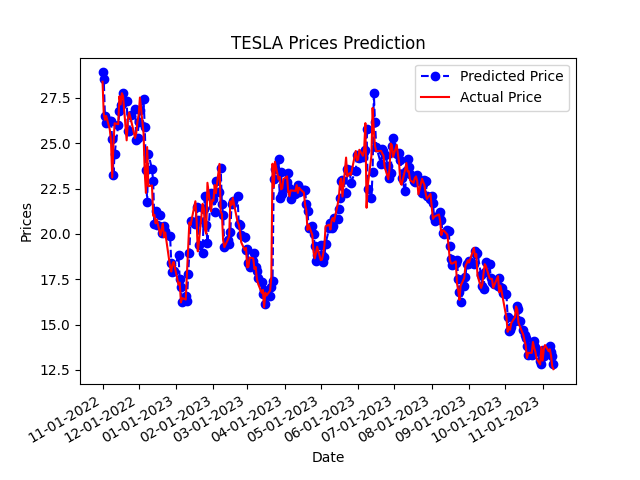
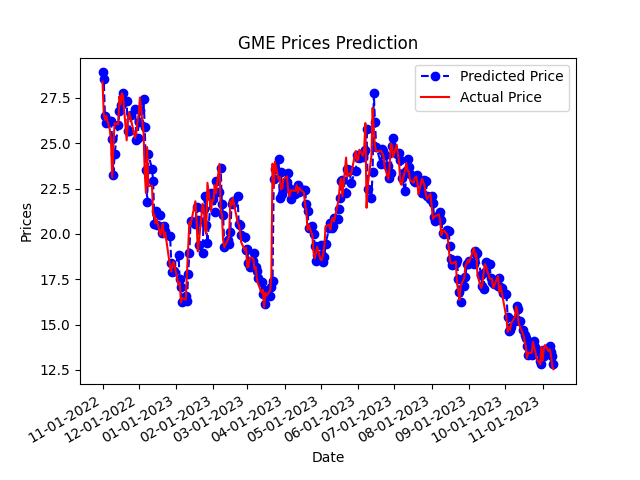
Fixed stock names in prediction plots

Changed region(s): [[0.3438, 0.0625, 0.6562, 0.125]]

diff --git a/SRC/arima_model.py b/SRC/arima_model.py
@@ -40,7 +40,6 @@ def plot_price_evolution(df, stockname):
     plt.close()
 
 def build_arima_model(df, stockname):
-    # train_data, test_data = df[0:int(len(df)*0.7)], df[int(len(df)*0.7):]
     start_date = '2022-11-01'
     end_date = '2023-11-10'
     test = df.loc[start_date:end_date]
@@ -60,14 +59,12 @@ def build_arima_model(df, stockname):
         history.append(true_test_value)
     MSE_error = mean_squared_error(test_data, model_predictions)
     print('Testing Mean Squared Error is {}'.format(MSE_error))
-    # test_set_range = df[int(len(df)*0.7):].index
     test_set_range = test.index
     plt.plot(test_set_range, model_predictions, color='blue', marker='o', linestyle='dashed',label='Predicted Price')
     plt.plot(test_set_range, test_data, color='red', label='Actual Price')
-    plt.title('TESLA Prices Prediction')
+    plt.title(f'{stockname} Prices Prediction')
     plt.xlabel('Date')
     plt.ylabel('Prices')
-    # plt.xticks(np.arange(881,1259,50), df.index[881:1259:50])
     monthly_ticks = pd.date_range(start=start_date, end=end_date, freq='MS')
     plt.xticks(monthly_ticks, [date.strftime('%m-%d-%Y') for date in monthly_ticks])
     plt.gcf().autofmt_xdate()
